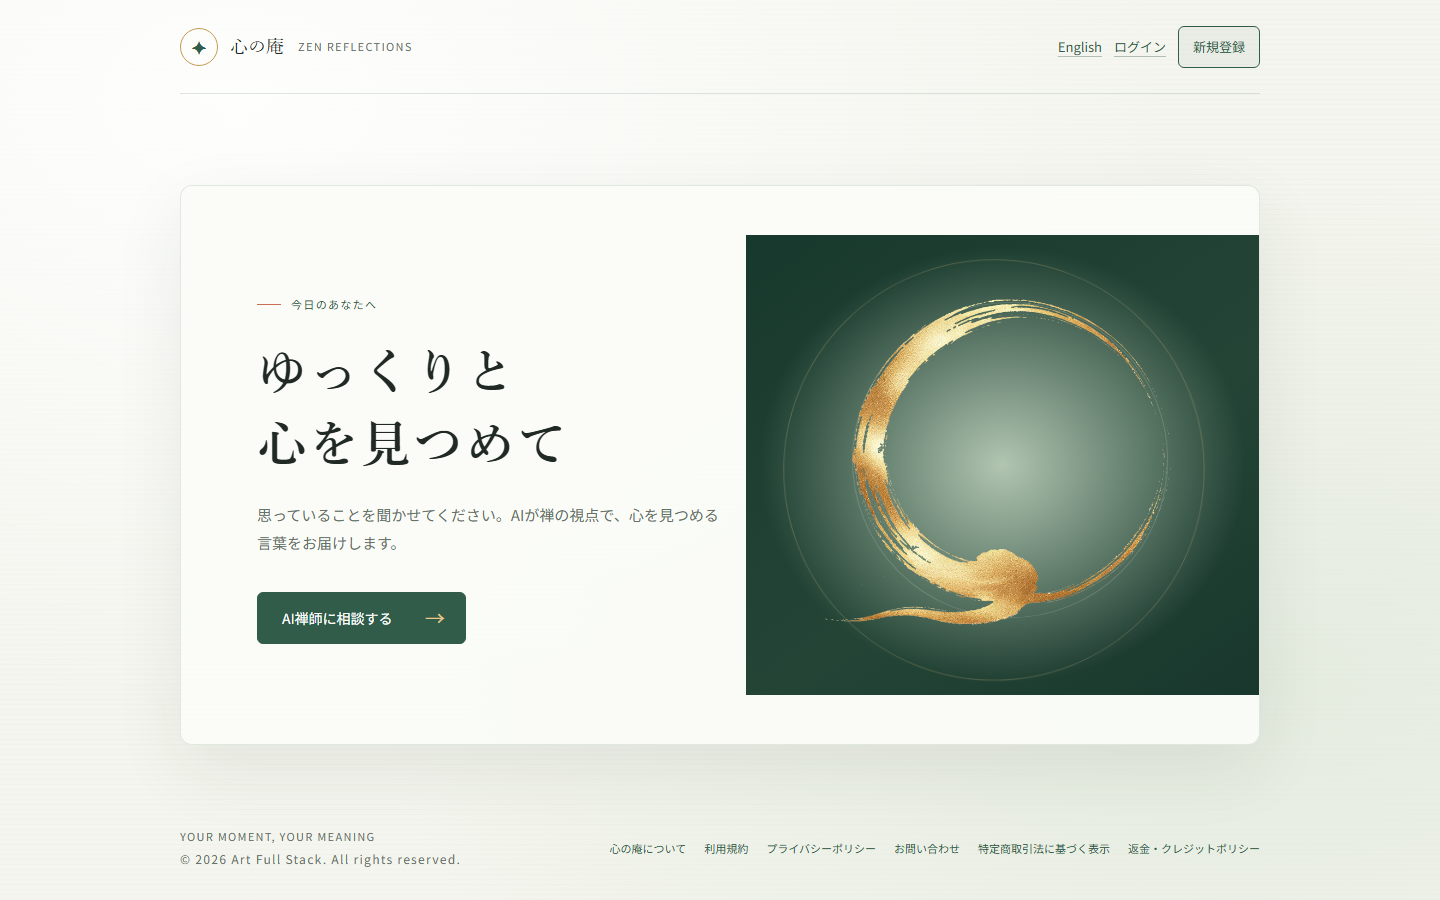
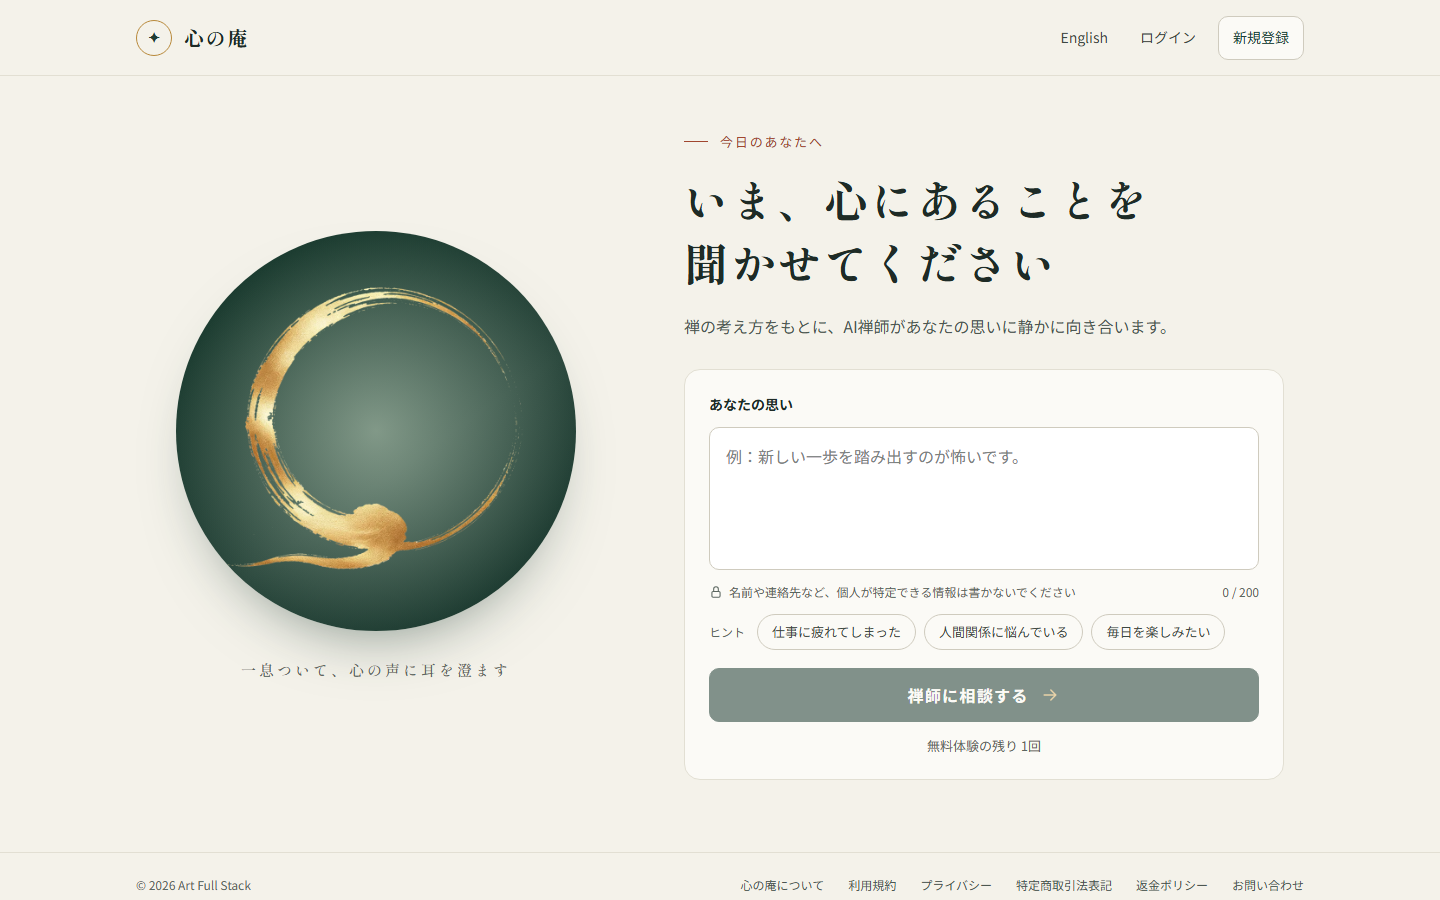
feat: update ZEN screenshot
Retake the screenshot from the current production page and update its
alt text to match the redesigned page.

diff --git a/src/content/ja.ts b/src/content/ja.ts
@@ -343,7 +343,7 @@ export const ja: SiteContent = {
       ],
       screenshot: {
         src: '/images/projects/zen.png',
-        alt: 'ZENのトップページ。「ゆっくりと心を見つめて」という見出しと、AI禅師に相談するボタンが表示されている。',
+        alt: 'ZENのトップページ。「いま、心にあることを聞かせてください」という見出しの下に、思いを入力する欄とヒントの選択肢、「禅師に相談する」ボタンが表示されている。',
         width: 1440,
         height: 900,
       },
